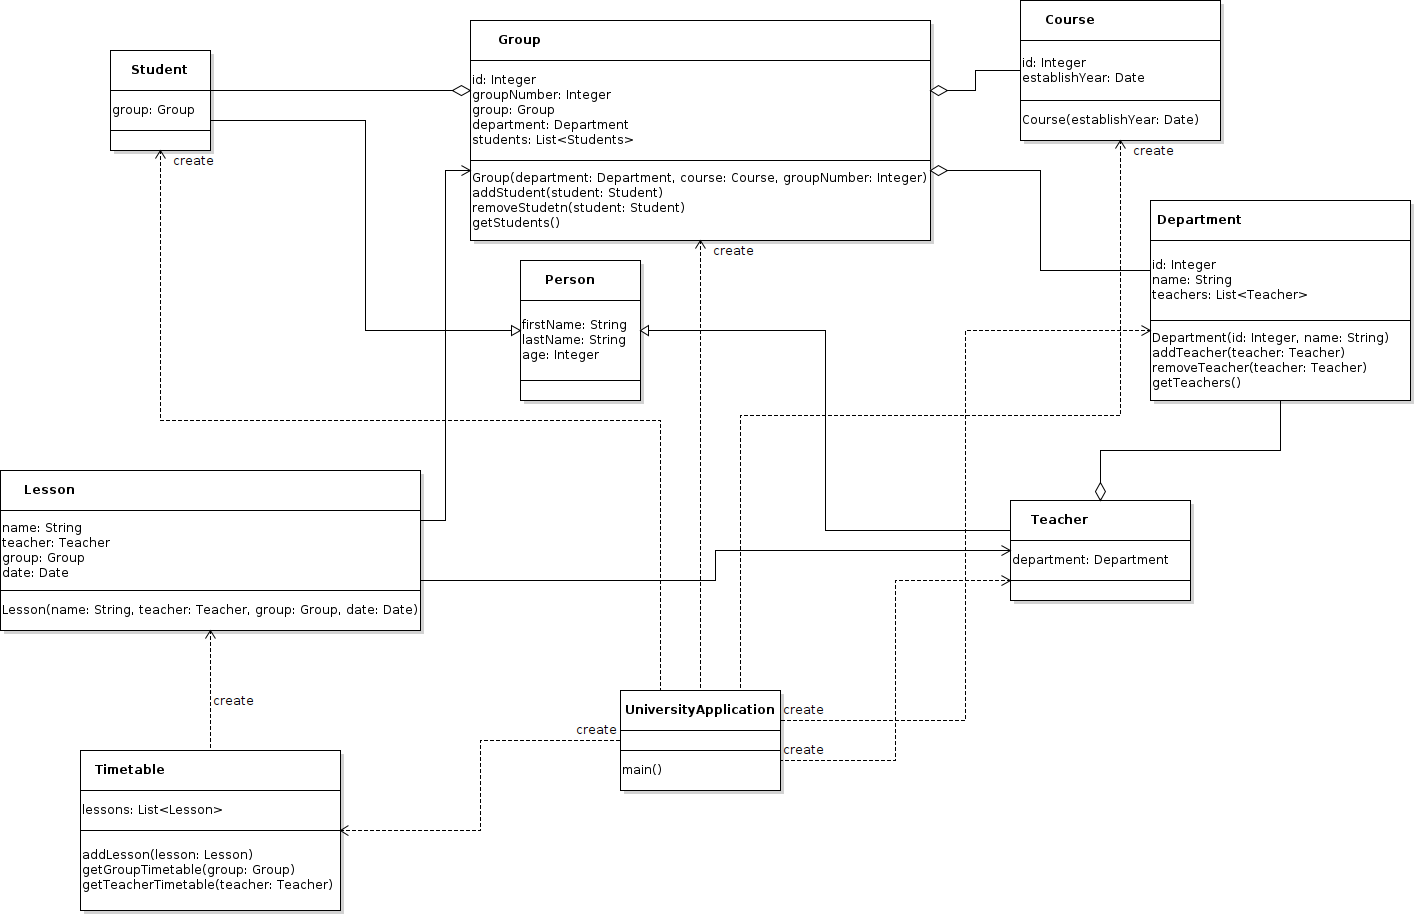
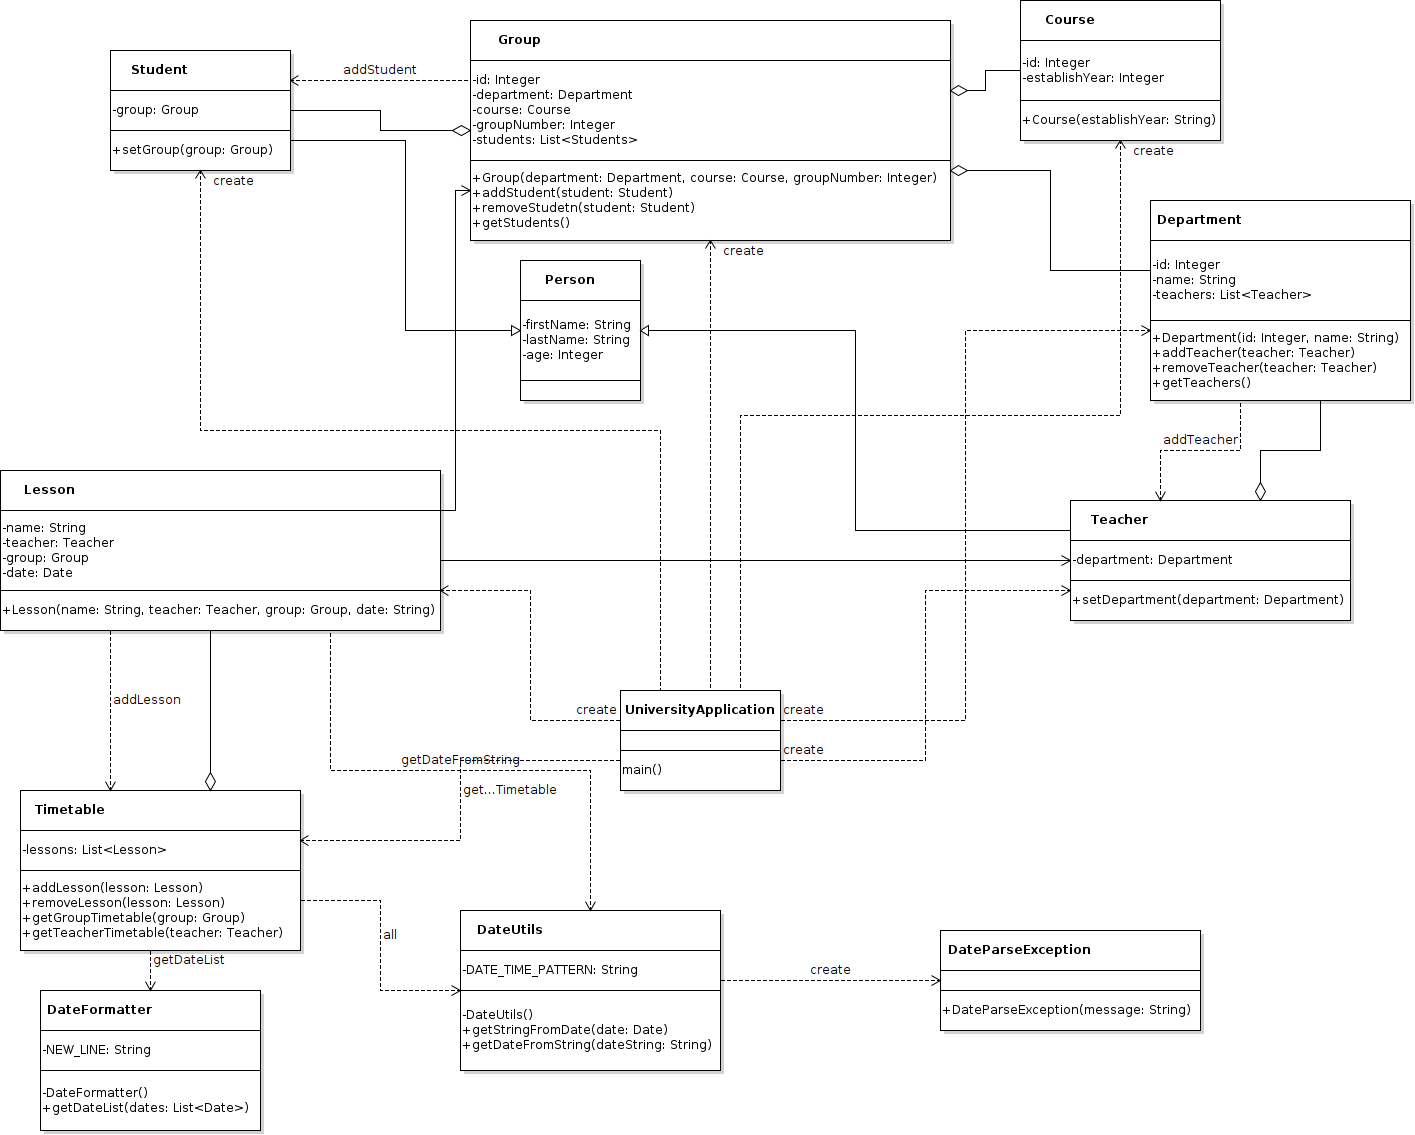
Change project structure. Add models by structure

diff --git a/src/main/java/ua/com/foxminded/domain/Group.java b/src/main/java/ua/com/foxminded/domain/Group.java
@@ -1,0 +1,46 @@
+package ua.com.foxminded.domain;
+
+import ua.com.foxminded.domain.person.Student;
+
+import java.util.List;
+
+public class Group {
+
+    private int id;
+    private Department department;
+    private Course course;
+    private int groupNumber;
+    private List<Student> students;
+
+    public int getId() {
+        return id;
+    }
+
+    public void setId(int id) {
+        this.id = id;
+    }
+
+    public Department getDepartment() {
+        return department;
+    }
+
+    public void setDepartment(Department department) {
+        this.department = department;
+    }
+
+    public Course getCourse() {
+        return course;
+    }
+
+    public void setCourse(Course course) {
+        this.course = course;
+    }
+
+    public int getGroupNumber() {
+        return groupNumber;
+    }
+
+    public void setGroupNumber(int groupNumber) {
+        this.groupNumber = groupNumber;
+    }
+}

diff --git a/src/main/java/ua/com/foxminded/lesson/Lesson.java b/src/main/java/ua/com/foxminded/lesson/Lesson.java
@@ -1,0 +1,46 @@
+package ua.com.foxminded.lesson;
+
+import ua.com.foxminded.domain.Group;
+import ua.com.foxminded.domain.person.Teacher;
+
+import java.util.Date;
+
+public class Lesson {
+
+    private String name;
+    private Teacher teacher;
+    private Group group;
+    private Date date;
+
+    public String getName() {
+        return name;
+    }
+
+    public void setName(String name) {
+        this.name = name;
+    }
+
+    public Teacher getTeacher() {
+        return teacher;
+    }
+
+    public void setTeacher(Teacher teacher) {
+        this.teacher = teacher;
+    }
+
+    public Group getGroup() {
+        return group;
+    }
+
+    public void setGroup(Group group) {
+        this.group = group;
+    }
+
+    public Date getDate() {
+        return date;
+    }
+
+    public void setDate(Date date) {
+        this.date = date;
+    }
+}

diff --git a/src/main/java/ua/com/foxminded/domain/Person.java b/src/main/java/ua/com/foxminded/domain/Person.java
@@ -1,0 +1,32 @@
+package ua.com.foxminded.domain;
+
+public class Person {
+
+    private String firstName;
+    private String lastName;
+    private int age;
+
+    public String getFirstName() {
+        return firstName;
+    }
+
+    public void setFirstName(String firstName) {
+        this.firstName = firstName;
+    }
+
+    public String getLastName() {
+        return lastName;
+    }
+
+    public void setLastName(String lastName) {
+        this.lastName = lastName;
+    }
+
+    public int getAge() {
+        return age;
+    }
+
+    public void setAge(int age) {
+        this.age = age;
+    }
+}

diff --git a/src/main/java/ua/com/foxminded/domain/Department.java b/src/main/java/ua/com/foxminded/domain/Department.java
@@ -1,0 +1,29 @@
+package ua.com.foxminded.domain;
+
+import ua.com.foxminded.domain.person.Teacher;
+
+import java.util.List;
+
+public class Department {
+
+    private int id;
+    private String name;
+    private List<Teacher> teachers;
+
+    public int getId() {
+        return id;
+    }
+
+    public void setId(int id) {
+        this.id = id;
+    }
+
+    public String getName() {
+        return name;
+    }
+
+    public void setName(String name) {
+        this.name = name;
+    }
+
+}

diff --git a/src/main/java/ua/com/foxminded/domain/Course.java b/src/main/java/ua/com/foxminded/domain/Course.java
@@ -1,0 +1,23 @@
+package ua.com.foxminded.domain;
+
+public class Course {
+
+    private int id;
+    private int establishYear;
+
+    public int getId() {
+        return id;
+    }
+
+    public void setId(int id) {
+        this.id = id;
+    }
+
+    public int getEstablishYear() {
+        return establishYear;
+    }
+
+    public void setEstablishYear(int establishYear) {
+        this.establishYear = establishYear;
+    }
+}

diff --git a/src/main/java/ua/com/foxminded/domain/person/Teacher.java b/src/main/java/ua/com/foxminded/domain/person/Teacher.java
@@ -1,0 +1,17 @@
+package ua.com.foxminded.domain.person;
+
+import ua.com.foxminded.domain.Department;
+import ua.com.foxminded.domain.Person;
+
+public class Teacher extends Person {
+
+    private Department department;
+
+    public Department getDepartment() {
+        return department;
+    }
+
+    public void setDepartment(Department department) {
+        this.department = department;
+    }
+}

diff --git a/src/main/java/ua/com/foxminded/domain/person/Student.java b/src/main/java/ua/com/foxminded/domain/person/Student.java
@@ -1,0 +1,17 @@
+package ua.com.foxminded.domain.person;
+
+import ua.com.foxminded.domain.Group;
+import ua.com.foxminded.domain.Person;
+
+public class Student extends Person {
+
+    private Group group;
+
+    public Group getGroup() {
+        return group;
+    }
+
+    public void setGroup(Group group) {
+        this.group = group;
+    }
+}

diff --git a/src/main/java/ua/com/foxminded/lesson/Timetable.java b/src/main/java/ua/com/foxminded/lesson/Timetable.java
@@ -1,0 +1,8 @@
+package ua.com.foxminded.lesson;
+
+import java.util.List;
+
+public class Timetable {
+
+    private List<Lesson> lessons;
+}

diff --git a/src/main/java/ua/com/foxminded/UniversityApplication.java b/src/main/java/ua/com/foxminded/UniversityApplication.java
@@ -1,0 +1,8 @@
+package ua.com.foxminded;
+
+public class UniversityApplication {
+
+    public static void main(String[] args) {
+
+    }
+}

diff --git a/src/main/java/ua/com/foxminded/util/DateUtils.java b/src/main/java/ua/com/foxminded/util/DateUtils.java
@@ -1,0 +1,6 @@
+package ua.com.foxminded.util;
+
+public class DateUtils {
+
+    private String dateTimePattern;
+}

diff --git a/src/main/java/ua/com/foxminded/exception/DateParseException.java b/src/main/java/ua/com/foxminded/exception/DateParseException.java
@@ -1,0 +1,5 @@
+package ua.com.foxminded.exception;
+
+public class DateParseException {
+}
+

diff --git a/src/main/java/ua/com/foxminded/util/DateFormatter.java b/src/main/java/ua/com/foxminded/util/DateFormatter.java
@@ -1,0 +1,5 @@
+package ua.com.foxminded.util;
+
+public class DateFormatter {
+
+}
